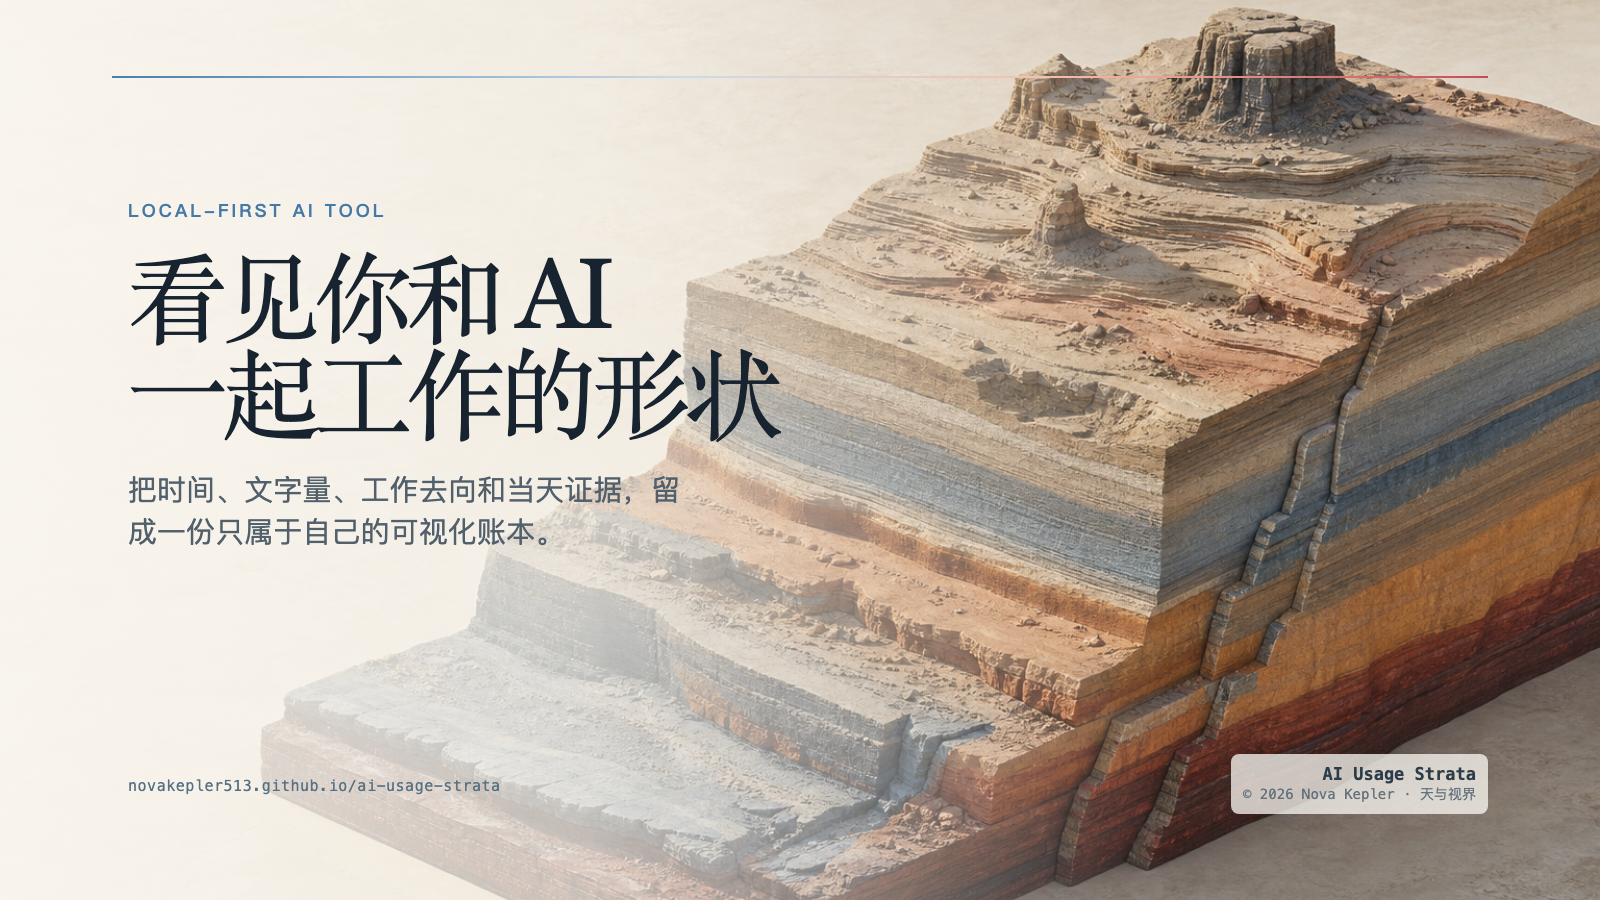
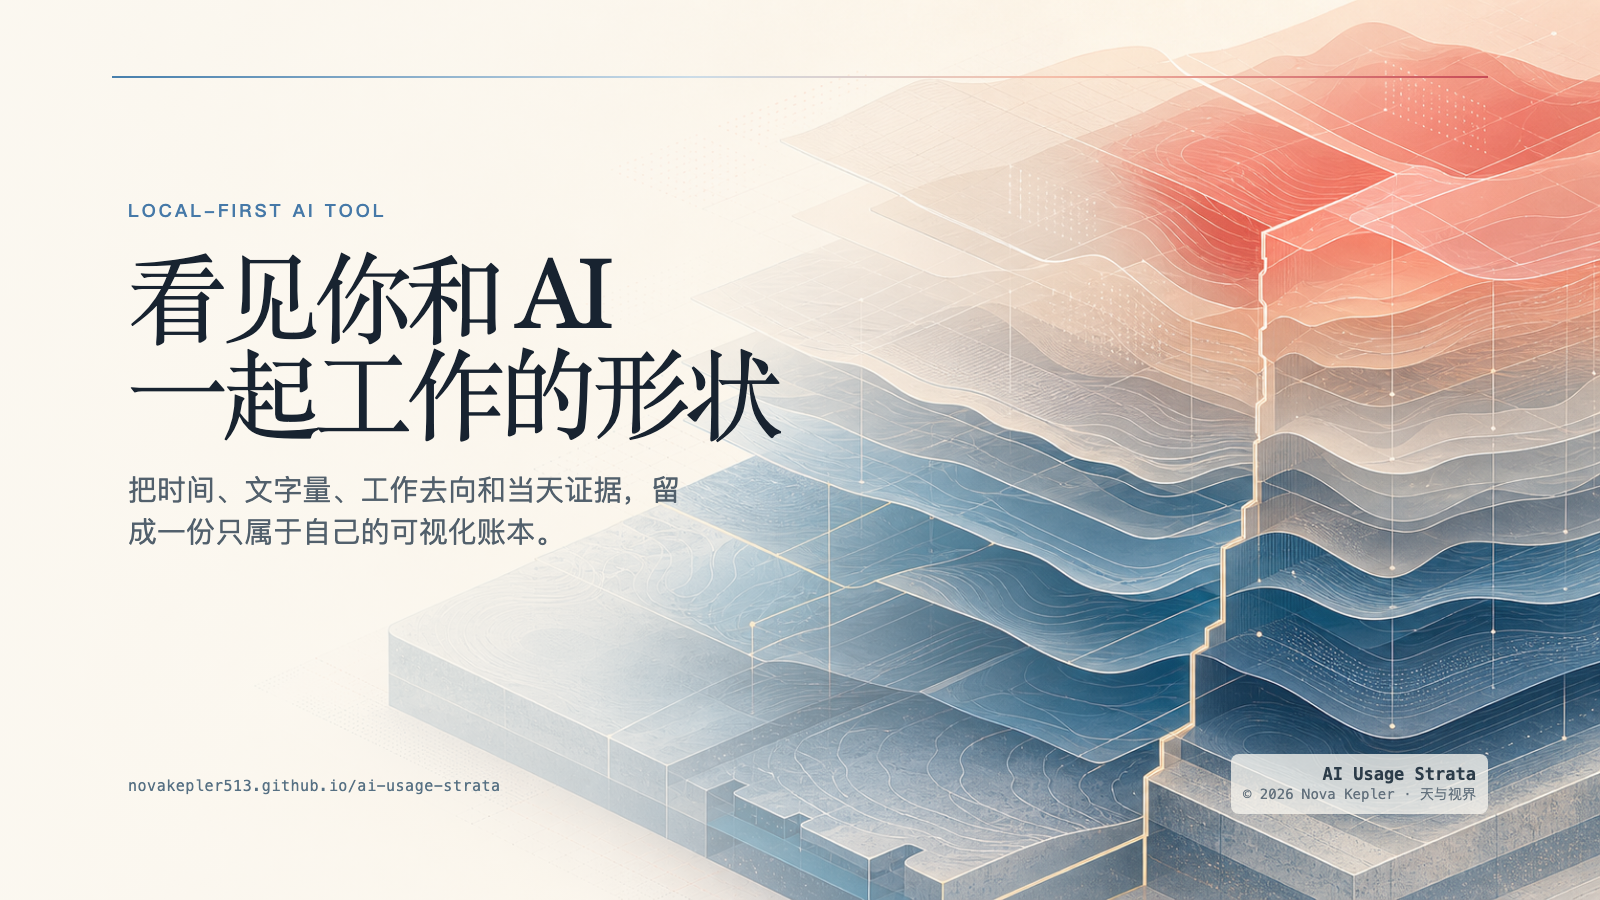
design: abstract launch visuals into time strata

diff --git a/docs/launch/交付说明.md b/docs/launch/交付说明.md
@@ -1,14 +1,14 @@
 # AI Usage Strata · 首发交付说明
 
-版本：v0.7.7
+版本：v0.7.8
 发布日期：2026-07-26
 线上体验：https://novakepler513.github.io/ai-usage-strata/
 GitHub：https://github.com/NovaKepler513/ai-usage-strata
-Release：https://github.com/NovaKepler513/ai-usage-strata/releases/tag/v0.7.7
+Release：https://github.com/NovaKepler513/ai-usage-strata/releases/tag/v0.7.8
 
 ## 这次已经交付什么
 
-- 视觉更新：横版与竖版海报改为可探索的地质剖面，用沉积层、断层和体块对应“时间地层”，不再使用纸艺或水墨式山脊。
+- 视觉更新：横版与竖版海报改为抽象的时间切片，用半透明层、等高线与错位切面表达“时间地层”，不再使用纸艺、水墨或写实地貌。
 - 公开页面：中英文、本机优先、默认空账本、虚构示例按需加载。
 - 开源入口：页面右下角蝴蝶圆标打开“版权与开源”，可下载 MIT License、访问源码、到 GitHub 反馈或贡献。
 - 文档：双语 README、数据格式、AI 整理与安全边界、贡献说明、发布检查清单。
